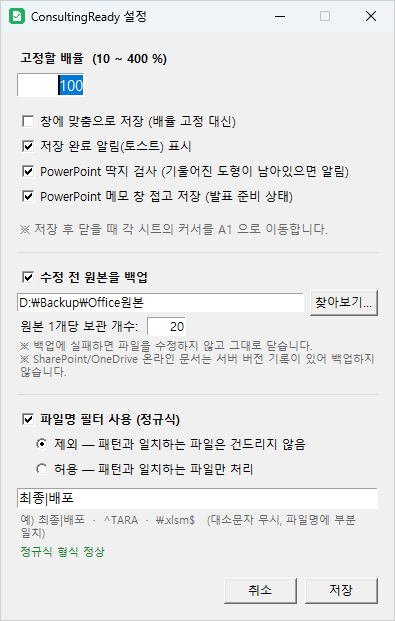
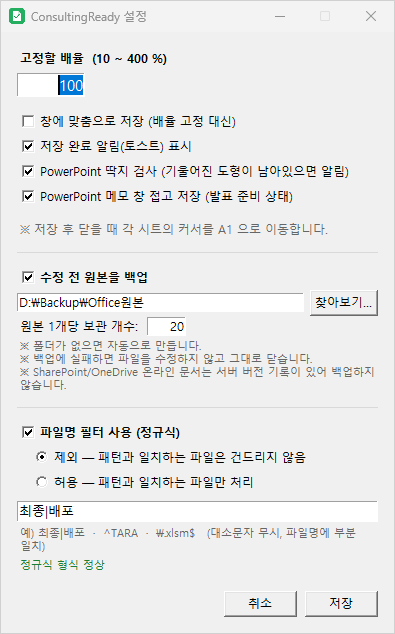
feat(backup): 백업 폴더가 없으면 자동 생성
설정창이 존재하지 않는 폴더를 거부해서, 사용자가 폴더를 미리 만들어야만
백업을 켤 수 있었다. (backup_document 는 이미 자동 생성하고 있었다)

- 설정 저장 시 폴더가 없으면 만들어 준다. 만들 수 없는 경로일 때만 막고
  실패 사유를 함께 보여준다.
- 설정창에 "폴더가 없으면 자동으로 만듭니다" 안내 추가

docs: README 의 '보안 및 무결성 검증' 섹션 제거

요청에 따라 해당 내용과 목차 항목, 보안 스캔 배지를 뺐다.
CI 워크플로(capability-audit / CodeQL / Semgrep / Bandit / pip-audit /
Gitleaks)는 그대로 동작한다.

검증
- 없는 폴더(1단계/3단계 깊이/한글·공백 경로) 자동 생성 후 백업 성공 확인
- 만들 수 없는 경로는 fail 로 처리되어 원본을 수정하지 않음 확인

diff --git a/consulting_ready.py b/consulting_ready.py
@@ -1523,7 +1523,8 @@ def _settings_thread():
 
         b_hint = tk.Label(root, anchor="w", justify="left", wraplength=360,
                           fg="#666666", font=("Malgun Gothic", 8),
-                          text="※ 백업에 실패하면 파일을 수정하지 않고 그대로 닫습니다.\n"
+                          text="※ 폴더가 없으면 자동으로 만듭니다.\n"
+                               "※ 백업에 실패하면 파일을 수정하지 않고 그대로 닫습니다.\n"
                                "※ SharePoint/OneDrive 온라인 문서는 서버 버전 기록이 "
                                "있어 백업하지 않습니다.")
         b_hint.pack(fill="x", **PAD)
@@ -1607,11 +1608,16 @@ def _settings_thread():
                                            "백업 폴더를 지정해 주세요.", parent=root)
                     return
                 if not os.path.isdir(bd):
-                    messagebox.showwarning(
-                        "입력 확인",
-                        "백업 폴더가 없습니다.\n'찾아보기...' 로 폴더를 선택해 주세요.\n\n%s"
-                        % bd, parent=root)
-                    return
+                    # 폴더가 없으면 만들어 준다. 만들 수 없는 경로일 때만 막는다.
+                    try:
+                        os.makedirs(bd, exist_ok=True)
+                        log("백업 폴더 생성: %s" % bd)
+                    except Exception as e:
+                        messagebox.showwarning(
+                            "입력 확인",
+                            "백업 폴더를 만들 수 없습니다.\n경로를 확인해 주세요.\n\n%s\n\n%s"
+                            % (bd, e), parent=root)
+                        return
                 if not (1 <= bk <= 200):
                     messagebox.showwarning("입력 확인",
                                            "보관 개수는 1 ~ 200 사이여야 합니다.",

diff --git a/README.md b/README.md
@@ -6,7 +6,6 @@
 
 <p align="center">
   <a href="../../releases/latest"><img src="https://img.shields.io/github/v/release/yidoyoon/ConsultingReady?label=release" alt="release"></a>
-  <a href="../../actions/workflows/security.yml"><img src="https://github.com/yidoyoon/ConsultingReady/actions/workflows/security.yml/badge.svg" alt="Security Scan"></a>
   <a href="LICENSE"><img src="https://img.shields.io/badge/license-MIT-blue" alt="license"></a>
 </p>
 
@@ -30,7 +29,6 @@
 - [설정](#설정)
 - [언제 동작하나요](#언제-동작하나요)
 - [기능 상세](#기능-상세)
-- [보안 및 무결성 검증](#보안-및-무결성-검증)
 - [문제 해결](#문제-해결)
 - [알려진 제약](#알려진-제약)
 - [직접 빌드하기](#직접-빌드하기)
@@ -129,7 +127,7 @@ exe만 받으셨다면 `Win + R` → `shell:startup` 으로 열리는 폴더에 
 - **메모 창 접고 저장** — 발표자 노트 창을 접은 상태로 저장합니다.
 
 ### 수정 전 원본을 백업
-- **백업 폴더** — `찾아보기...` 로 지정합니다. 기본값은 `%LOCALAPPDATA%\ConsultingReady\backup`
+- **백업 폴더** — `찾아보기...` 로 고르거나 경로를 직접 입력합니다. **폴더가 없으면 자동으로 만듭니다.** 기본값은 `%LOCALAPPDATA%\ConsultingReady\backup`
 - **원본 1개당 보관 개수** — 기본 20개. 넘으면 오래된 것부터 지웁니다.
 
 ### 파일명 필터 (정규식)
@@ -217,72 +215,6 @@ Excel은 **문서를 닫는 도중에** 배율을 바꿔 저장하면 창이 사
 **백업에 실패하면 파일을 수정하지 않고 그대로 닫습니다.** 백업을 켜셨다는 건 원본을 지키고 싶다는 뜻이므로, 백업이 안 되면 수정도 하지 않는 것이 일관된 동작이라고 판단했습니다.
 
 > SharePoint/OneDrive 온라인 문서(경로가 `https://...`)는 복사할 로컬 파일이 없어 백업하지 않고 넘어갑니다. 이 경우 **서버의 버전 기록**이 더 나은 안전장치입니다.
-
----
-
-## 보안 및 무결성 검증
-
-이 프로그램은 여러분의 업무 문서를 읽고 저장합니다. 그래서 **"숨겨진 악성 코드가 없다"** 는 것을 확인하실 수 있도록 아래 절차를 갖췄습니다.
-
-### 배포 파일의 출처 증명 (Build Provenance)
-
-Release에 올라간 `ConsultingReady.exe` 는 **제작자 PC에서 만들어 올린 것이 아니라, GitHub Actions가 이 저장소의 소스로 직접 빌드한 것**입니다. GitHub가 서명한 증명서가 함께 발행되므로 아래 명령으로 누구나 확인할 수 있습니다.
-
-```bash
-gh attestation verify ConsultingReady.exe --repo <OWNER>/ConsultingReady
-```
-
-이 명령이 통과하면 **그 exe가 정확히 이 저장소의 어떤 커밋에서 만들어졌는지** 확인됩니다. 즉 소스에 없는 코드가 exe에 몰래 들어갈 수 없습니다.
-
-### 악성 행위 능력 검사
-
-일반적인 보안 도구가 **취약점**(실수로 생긴 약점)을 찾는다면, 이 검사는 **악성 프로그램이 하는 일**(의도적으로 넣은 기능)을 찾습니다. 악성코드가 목적을 달성하려면 반드시 필요한 능력들이 코드에 있는지 항목별로 확인하고, 하나라도 발견되면 **빌드를 실패시킵니다**.
-
-| 검사 항목 | 왜 보는가 |
-|---|---|
-| 네트워크 통신 | 정보 유출·추가 페이로드 다운로드 통로 |
-| 외부 프로그램 실행 | 2차 페이로드 실행, 권한 상승 |
-| 동적 코드 실행 | `eval`/`exec` 로 숨긴 코드 실행 |
-| 난독화·인코딩된 페이로드 | 악성 코드를 문자열로 위장 |
-| 자동 실행 등록(지속성) | 몰래 상주·재감염 |
-| 입력 가로채기·화면 감시 | 키로거, 화면 캡쳐 |
-| 자격증명 접근 | 저장된 비밀번호·토큰 탈취 |
-| 광범위 파일 탐색·암호화 | 랜섬웨어, 대량 문서 수집 |
-| 보안 기능 무력화 | 백신·방화벽·로그 끄기 |
-
-검사기는 [`tools/capability_audit.py`](tools/capability_audit.py) 에 전부 공개돼 있습니다.
-
-**검사기가 실제로 작동하는지도 함께 증명합니다.** 아무것도 탐지하지 못하는 검사는 통과해도 의미가 없기 때문에, CI 는 매번 **일부러 악성 패턴을 심은 샘플**을 검사기에 넣어 전 항목을 탐지하는지 확인합니다. 탐지에 실패하면 그 자체로 빌드가 실패합니다.
-
-### 일반 취약점 검사
-
-| 검사 | 내용 |
-|---|---|
-| **CodeQL** | GitHub 코드 분석 엔진 (`security-extended` 규칙) |
-| **Semgrep** | 보안 규칙셋 정적 분석 |
-| **Bandit** | Python 보안 린터 |
-| **pip-audit** | 사용 라이브러리의 알려진 취약점(CVE) |
-| **Gitleaks** | 하드코딩된 토큰·키 검사 (**전체 커밋 이력**) |
-
-모든 검사는 `main` 에 올라가는 변경과 PR 마다, 그리고 **매주 월요일**에 자동 실행됩니다. 결과는 저장소의 **Actions** 탭 요약과 **Security** 탭에서 볼 수 있습니다.
-
-### SHA256 체크섬
-
-Release에 `SHA256SUMS.txt` 가 함께 올라갑니다. 내려받은 파일이 변조되지 않았는지 확인할 수 있습니다.
-
-```powershell
-Get-FileHash ConsultingReady.exe -Algorithm SHA256
-```
-
-### 이 프로그램이 하지 않는 일
-
-- **네트워크 통신을 전혀 하지 않습니다.** 인터넷 연결이 필요 없고, 어떤 데이터도 외부로 보내지 않습니다.
-- **문서 내용을 읽거나 수집하지 않습니다.** 바꾸는 것은 배율·커서 위치·활성 시트·메모창 상태 같은 **보기 설정**뿐이며, 셀 값이나 슬라이드 내용은 건드리지 않습니다.
-- **파일을 지우지 않습니다.** 유일한 삭제는 백업 폴더에서 보관 개수를 넘은 **자기가 만든 백업 파일**뿐입니다.
-- 로그(`log.txt`)와 설정(`config.json`)은 `%LOCALAPPDATA%\ConsultingReady\` 에만 기록합니다.
-- 아이콘도 [`tools/make_icon.py`](tools/make_icon.py) 로 **코드에서 생성**합니다. 출처를 알 수 없는 바이너리를 저장소에 두지 않기 위해서입니다.
-
-> **솔직히 말씀드리면**, 위 절차들은 "악성 코드가 없음"을 수학적으로 증명하지는 못합니다. 자동 검사는 알려진 패턴만 잡고, 출처 증명은 "이 소스로 빌드했다"는 사실만 보장합니다. 다만 **소스 전체가 공개돼 있고, 배포본이 그 소스에서 만들어졌음이 검증 가능**하므로, 코드를 직접 읽어 확인하실 수 있습니다.
 
 ---
 
